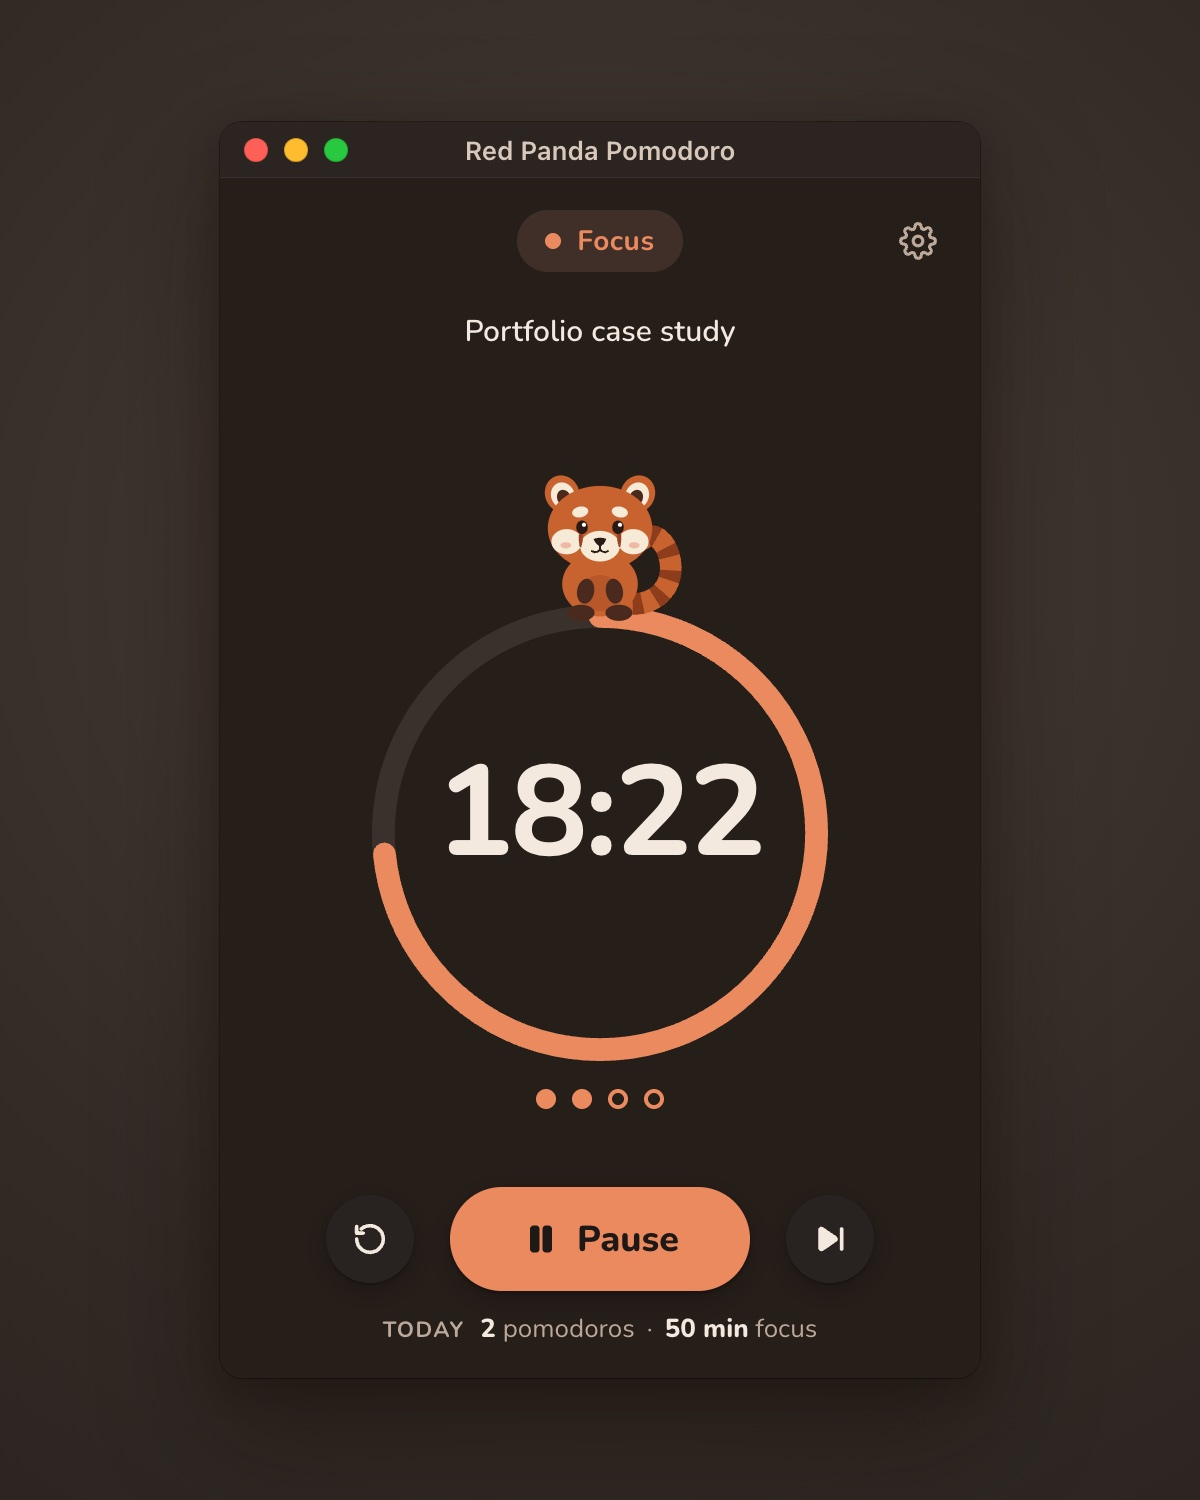
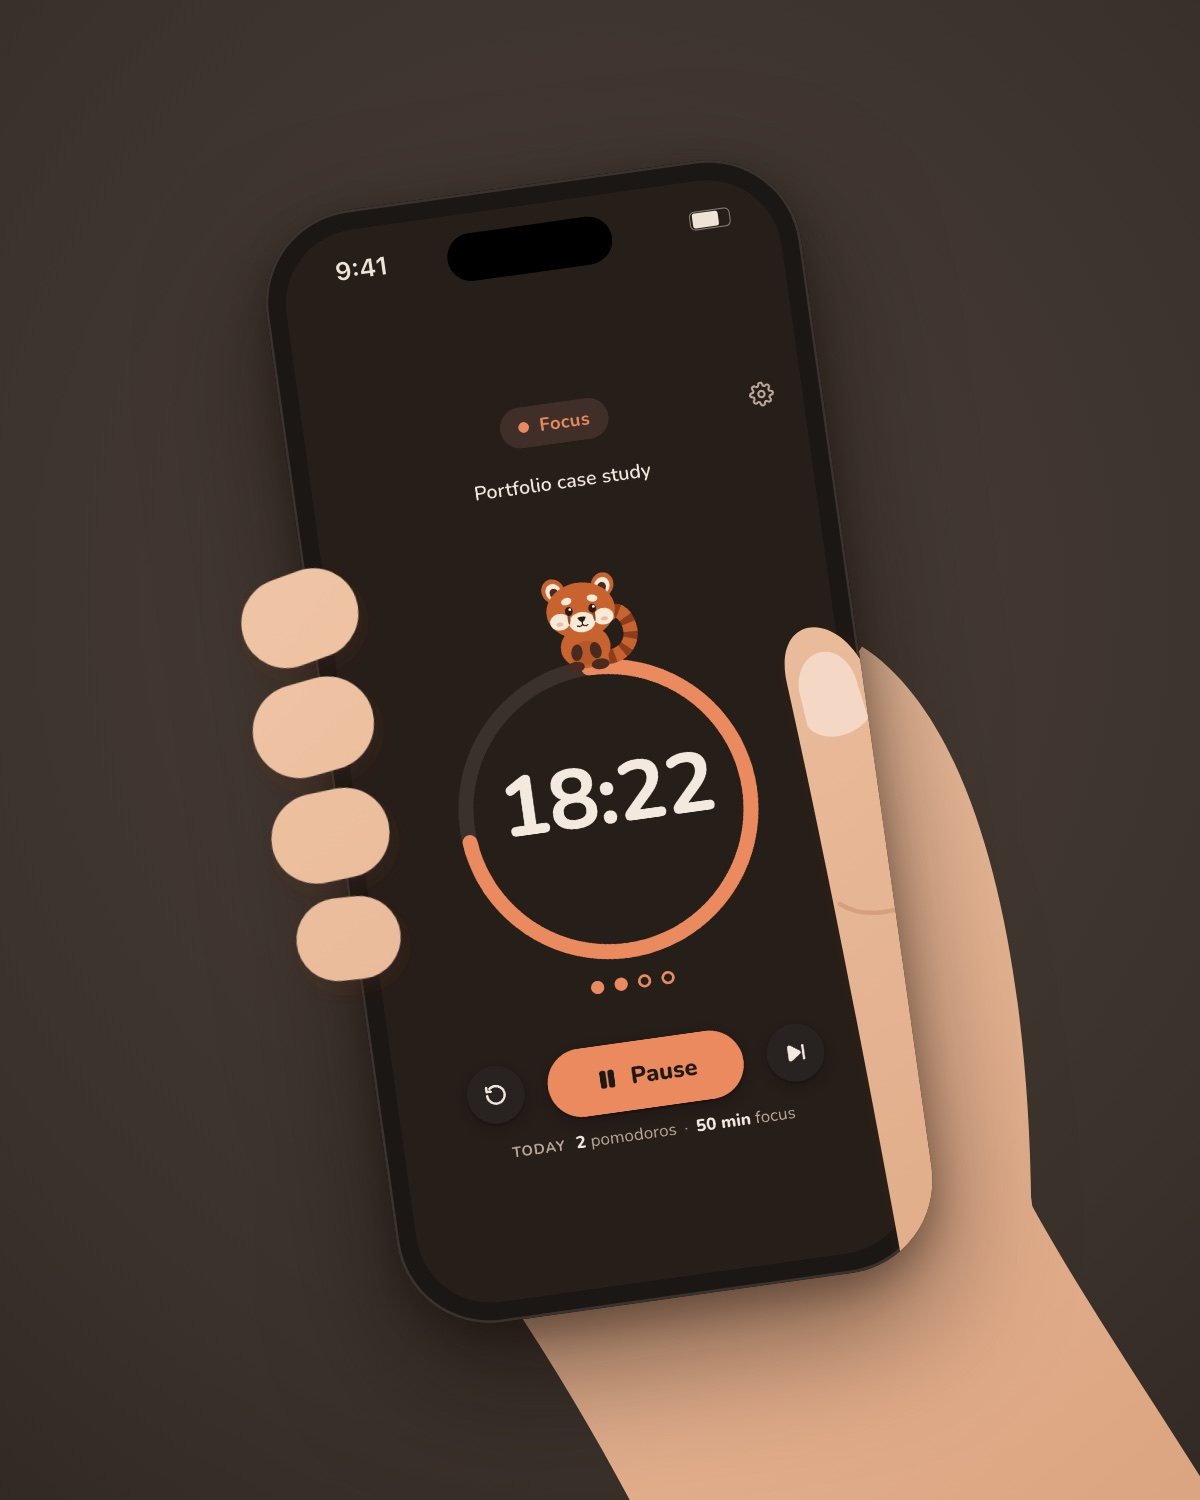
Show Red Panda Pomodoro in a hand-held phone and a tilted screen grid
The cover is now an illustrated hand holding a phone with the focus
timer, centred on a soft warm background; the second phone shot is the
same in the dark theme, and the wide gallery shot lays the app screens
out in phones at an angle. Alt texts follow the new images.

diff --git a/src/cases.js b/src/cases.js
@@ -257,7 +257,7 @@ const rpPic = (file, alt) => ({ src: `${RP_DIR}/${file}`, alt });
 
 const RP = {
   pl: {
-    hero: rpPic("rp-hero.jpg", "Ikona Red Panda Pomodoro obok okna aplikacji w jasnym i ciemnym motywie"),
+    hero: rpPic("rp-hero.jpg", "Dłoń trzymająca telefon z minutnikiem Red Panda Pomodoro w trakcie skupienia"),
     meta: [
       ["Klient", "Projekt własny"],
       ["Rok", "2026"],
@@ -301,10 +301,10 @@ const RP = {
       ],
     },
     gallery: {
-      video: rpPic("rp-wide.jpg", "Ikona aplikacji i trzy tryby w ciemnym motywie"),
+      video: rpPic("rp-wide.jpg", "Ekrany aplikacji w telefonach ułożone ukośnie: tryby, ustawienia, jasny i ciemny motyw"),
       phones: [
         rpPic("rp-phone-1.jpg", "Ikona Red Panda Pomodoro na ekranie telefonu"),
-        rpPic("rp-phone-2.jpg", "Okno aplikacji w ciemnym motywie w trakcie skupienia"),
+        rpPic("rp-phone-2.jpg", "Dłoń trzymająca telefon z minutnikiem w ciemnym motywie"),
       ],
       detail: rpPic("rp-detail.jpg", "Menu w pasku menu z pozostałym czasem"),
       note: "Minutnik mieszka też w pasku menu. Stamtąd można zatrzymać sesję, przeskoczyć ją albo otworzyć ustawienia, bez otwierania okna.",
@@ -316,7 +316,7 @@ const RP = {
     },
   },
   en: {
-    hero: rpPic("rp-hero.jpg", "The Red Panda Pomodoro icon next to the app window in light and dark themes"),
+    hero: rpPic("rp-hero.jpg", "A hand holding a phone with the Red Panda Pomodoro timer during a focus session"),
     meta: [
       ["Client", "Personal project"],
       ["Year", "2026"],
@@ -360,10 +360,10 @@ const RP = {
       ],
     },
     gallery: {
-      video: rpPic("rp-wide.jpg", "The app icon and the three modes in the dark theme"),
+      video: rpPic("rp-wide.jpg", "App screens in phones laid out at an angle: the modes, settings, light and dark themes"),
       phones: [
         rpPic("rp-phone-1.jpg", "The Red Panda Pomodoro icon on a phone home screen"),
-        rpPic("rp-phone-2.jpg", "The app window in the dark theme during a focus session"),
+        rpPic("rp-phone-2.jpg", "A hand holding a phone with the timer in the dark theme"),
       ],
       detail: rpPic("rp-detail.jpg", "The menu bar menu with the time left"),
       note: "The timer also lives in the menu bar. From there you can pause a session, skip it or open the settings without opening the window.",
